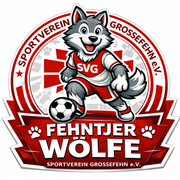
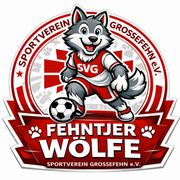
Offizielle Vereinsdateien auswerten, Markenleitfaden ergänzen
Der Verein und der Trainer haben die Druckdaten der neuen Trikots
bereitgestellt. Daraus:

- Vereinsrot korrigiert: #C8102E war geschätzt und zu bläulich. Gemessen
  aus der offiziellen Druckdatei sind es #BF0B02 - ein reines, warmes Rot.
  Alle Kontraste nachgerechnet, AA bestanden.
- Wappen aus der offiziellen Datei statt aus einem PDF-Export: 1254 px
  statt 1018, saubere Typografie. Favicon und Touch-Icon ziehen nach.
- docs/markenleitfaden.md als Nachschlagewerk für Menschen und KI-Modelle:
  gemessene Farben, beide Schreibweisen, die zwei Maskottchen, Regeln für
  Bildgenerierung, Tonfall und Mottos, Checkliste.

diff --git a/src/app/globals.css b/src/app/globals.css
@@ -8,10 +8,15 @@
  * sonst laufen Light- und Dark-Mode auseinander.
  */
 @theme {
-  --color-brand-red: #c8102e;
-  --color-brand-red-dark: #9b0c23;
+  /*
+   * Das Rot ist aus dem offiziellen Vereinslogo gemessen, nicht geschaetzt:
+   * Mittelwert ueber 172.186 Pixel der gesaettigten Rotflaeche in
+   * "Fehntjer Wölfe Logo.png" (Druckdatei des Vereins). Ein reines, warmes
+   * Rot - kein Karmesin, kein Blaustich.
+   */
+  --color-brand-red: #bf0b02;
+  --color-brand-red-dark: #8f0801;
   --color-brand-grey: #8a9099;
-  --color-brand-fur: #f2efe9;
   --color-brand-ink: #18181b;
 }
 

diff --git a/src/app/opengraph-image.tsx b/src/app/opengraph-image.tsx
@@ -27,7 +27,7 @@ export default function OpengraphImage() {
           flexDirection: "column",
           justifyContent: "center",
           padding: "90px",
-          background: "#c8102e",
+          background: "#bf0b02",
           color: "#ffffff",
         }}
       >

diff --git a/docs/markenleitfaden.md b/docs/markenleitfaden.md
@@ -1,0 +1,283 @@
+# Markenleitfaden Fehntjer Wölfe
+
+**Dieses Dokument richtet sich an Menschen und an KI-Modelle.** Es enthält die
+harten Fakten, die man nicht raten soll: gemessene Farbwerte, verbindliche
+Schreibweisen, die festen Beschreibungen der beiden Maskottchen und die Regeln,
+an denen schon etwas schiefgegangen ist.
+
+Wer hier etwas ändert, ändert es für alle künftigen Bilder, Texte und Logos.
+
+Stand: 24.10.2026
+
+---
+
+## 1. Wer die Wölfe sind
+
+Die **Fehntjer Wölfe** sind eine Nachwuchsmannschaft des **SV Grossefehn e.V.**
+in Großefehn, Ostfriesland, Niedersachsen. Zurzeit spielen sie in der
+**F-Jugend**.
+
+### Drei Dinge, die man nicht behaupten darf
+
+1. **Nicht „die jüngste Mannschaft des Vereins".** Unter der F-Jugend gibt es
+   noch die G-Jugend. Diese Behauptung stand einmal im Seitentext und war
+   falsch.
+2. **Die Altersklasse ist nicht fest.** Ein Jahrgang rückt jedes Jahr auf: aus
+   der F-Jugend wird die E-Jugend. Wer „F-Jugend" in einen Text schreibt, baut
+   ein Verfallsdatum ein. Besser: „Nachwuchsmannschaft", und die Altersklasse
+   nur dort nennen, wo sie leicht zu aktualisieren ist. In der Website steht
+   sie als einzelne Konstante `ageGroup` in `src/content/site.ts`.
+3. **Die Website ist privat betrieben**, kein offizielles Vereinsangebot. Sie
+   darf nicht so auftreten, als spräche sie für den Gesamtverein.
+
+### Schreibweisen – beide sind richtig
+
+| | Variante A | Variante B |
+|---|---|---|
+| Mannschaft | Fehntjer **Wölfe** | Fehntjer **Woelfe** (so in der Domain) |
+| Verein | SV **Großefehn** (Landkarte, Duden) | SV **Grossefehn** (so auf dem Vereinswappen) |
+
+Das Vereinswappen selbst schreibt „GROSSEFEHN" ohne ß. Beide Formen sollen in
+längeren Texten natürlich vorkommen, damit die Seite unter beiden gefunden
+wird – **in ganzen Sätzen, nie als Stichwortliste.**
+
+Instagram: [@fehntjer_woelfe](https://www.instagram.com/fehntjer_woelfe/)
+E-Mail: mail@fehntjer-woelfe.de
+
+---
+
+## 2. Farben
+
+**Alle Werte sind gemessen, nicht geschätzt.** Das Vereinsrot stammt aus der
+offiziellen Druckdatei `Fehntjer Wölfe Logo.png`: Mittelwert über 172.186 Pixel
+der gesättigten Rotfläche.
+
+| Rolle | Hex | RGB | Verwendung |
+|---|---|---|---|
+| **Vereinsrot** | `#BF0B02` | 191, 11, 2 | Flächen, Trikot, Hero, Buttons |
+| Vereinsrot dunkel | `#8F0801` | 143, 8, 1 | Hover, Schatten |
+| Wolfsgrau | `#8A9099` | 138, 144, 153 | Fell der Maskottchen |
+| Tiefschwarz | `#18181B` | 24, 24, 27 | Konturen, Text |
+| Weiß | `#FFFFFF` | 255, 255, 255 | Trikotpartien, Text auf Rot |
+
+**Das Rot ist ein reines, warmes Rot** – kein Karmesin, kein Blaustich. Eine
+frühere Fassung dieser Seite nutzte `#C8102E`; das war deutlich zu bläulich und
+ist korrigiert.
+
+### Kontraste
+
+Geprüft nach WCAG 2.1:
+
+| Kombination | Verhältnis | |
+|---|---|---|
+| Weiß auf `#BF0B02` | 6,43 : 1 | AA bestanden |
+| `#BF0B02` auf Weiß | 6,43 : 1 | AA bestanden |
+| `#8F0801` auf Weiß | 9,53 : 1 | AA bestanden |
+
+Wer eine neue Farbkombination einführt, rechnet den Kontrast nach. 4,5 : 1 ist
+das Minimum für normalen Text.
+
+### Sponsorenfarben (nicht Vereinsfarben)
+
+Auf den Trikots stehen fremde Marken. Ihre Farben sind **nicht** Teil der
+Vereinsidentität und dürfen nicht in eigene Gestaltung übernommen werden:
+
+- **ELSCO Haustechnik**: Orange `#EC6608`, dazu Graustufen
+- **VO Immobilien**, **Ostfriesische Brandkasse**: eigene Dateien, siehe unten
+
+---
+
+## 3. Logos
+
+### Welche Datei wofür
+
+| Datei | Inhalt | Einsatz |
+|---|---|---|
+| `Fehntjer Wölfe Logo.png` | Mannschaftswappen, 1254², weißer Hintergrund | **Die maßgebliche Fassung.** Website, Social Media, Druck |
+| `svg-vereinswappen.png` | Vereinswappen SVG, 512², transparent | wo die Zugehörigkeit zum Verein gezeigt wird |
+
+Die Originale liegen beim Verein beziehungsweise im Referenzordner des
+Bildprojekts – **nicht** in diesem Repository. Eingecheckt sind nur die
+verkleinerten Web-Fassungen unter `public/logo/`, erzeugt von
+`scripts/optimize-images.mjs`.
+
+### Regeln
+
+1. **Das Wappen wird nie nachgezeichnet, nachgebaut oder „neu interpretiert".**
+   Es wird verwendet, wie es ist. Ein KI-generiertes Wappen sieht fast richtig
+   aus – und genau das ist das Problem.
+2. **Nie verzerren.** Seitenverhältnis bleibt.
+3. **Nicht auf Rot stellen.** Beide Wappen sind selbst rot-weiß. Auf rotem
+   Grund gehören sie auf eine weiße Fläche – wie ein aufgeklebter Aufnäher.
+4. **Das Vereinswappen ist eine fremde Marke.** Die Verwendung auf einer
+   privaten Mannschaftsseite ist üblich, sollte aber mit dem Verein abgestimmt
+   sein.
+5. **Sponsorenlogos nie generieren.** Dafür gibt es Druckdateien (SVG, AI, EPS,
+   PDF) vom Verein, in den Varianten Brust/Rücken und farbig/schwarz. Ein
+   nachgebautes Sponsorenlogo ist ein Vertragsproblem, kein Designfehler.
+
+---
+
+## 4. Die beiden Maskottchen
+
+Es gibt **zwei** Wölfe, nicht einen. Sie müssen auf jedem Bild unterscheidbar
+sein.
+
+| | **Spieler-Wolf** (jung) | **Trainer-Wolf** (älter) |
+|---|---|---|
+| Fell | helleres Silbergrau, glatt | dunkleres Stahlgrau, struppiger |
+| Augenbrauen | keine | zwei kräftige dunkle Brauen – sein Erkennungsmerkmal |
+| Augen | weit offen, rund, **blau** | schmaler, aber **gleiches Blau** |
+| Mund | offenes Grinsen, Zunge sichtbar | geschlossenes, wissendes Schmunzeln |
+| Haltung | rennt, springt, jubelt | zeigt, erklärt, Pfote am Kinn |
+| Kleidung | Trikot | schwarze Trainerjacke |
+
+**Beide haben blaue Augen.** Das ist die häufigste Abweichung: Modelle geben
+dem älteren Wolf gern braune Augen. Ebenso häufig: schwere Lider, die ihn
+arrogant statt souverän wirken lassen.
+
+Die wörtlichen, englischen Prompt-Bausteine stehen in
+`prompts/woelfe-charakter.md` des Bildprojekts, in den Abschnitten `BASIS`,
+`SPIELER`, `TRAINER`, `DUO`, `STYLE` und `NEGATIVE`. **Diese Blöcke gehen
+unverändert in jeden Prompt.** Jede Umformulierung kostet Konsistenz über die
+Bildserie hinweg.
+
+### Zwei Stilregister – eines auswählen
+
+Das vorhandene Material ist nicht einheitlich:
+
+| | **Wappen** | **Duo-Sticker** (Protokollfolien, Elternbriefe) |
+|---|---|---|
+| Kopfanteil | etwa ¼ der Figur | etwa **⅖**, groß und rund |
+| Register | Sport-Logo, dynamisch, kantig | Kinder-Sticker, weich, knuffig |
+| Augen | mittelgroß | groß, rund, eng beieinander |
+
+**Für neue Motive gilt das Duo-Sticker-Register.** Das Wappen bleibt Wappen und
+wird nicht nachgebaut. Ein Steckbrief, der zwischen beiden liegt, erzeugt
+schlanke Huskys statt Maskottchen – das ist einmal passiert.
+
+---
+
+## 5. Regeln für Bildgenerierung
+
+### Keine Schrift im generierten Bild
+
+Bildmodelle setzen Text nicht zuverlässig. Auf einem früheren Motiv war aus
+„jetzt geht's los!" ein verrutschter Buchstabensalat geworden. Bei einem
+Vereinsnamen fällt jeder Fehler sofort auf.
+
+**Also:** Trikots bleiben im Prompt blank – rot-weiß, ohne Aufdruck, ohne
+Nummern, ohne Brustmarke. Schrift, Wappen und Sponsorenleiste kommen
+**nachträglich** in Canva, PowerPoint oder GIMP dazu. Das dauert zwei Minuten
+und sieht immer richtig aus.
+
+### Das Vereinswappen im Bild
+
+Getestet: Bei **einem** Wolf gelingt eine runde rot-weiße Scheibe mit
+Kreuz-Stern, ohne Schrift, als Marke erkennbar. Bei **zwei** Wölfen wurde
+daraus ein Wappenschild mit Blümchen-Emblem.
+
+**Regel:** Das generierte Wappen ist eine *Andeutung*, keine Marke. Für alles
+Öffentliche das echte Wappen hinterher auflegen.
+
+### Maßstab
+
+Die Wölfe sind eine **Nachwuchsmannschaft im Kleinfeld**: Mini-Tore, ein paar
+Eltern am Zaun, ein kleiner Turnierpokal. **Kein Stadion, kein tosendes
+Publikum, kein Riesenpokal, kein Konfettiregen.** Die erste Szenenliste lag
+hier daneben.
+
+### Formate
+
+| Kanal | Seitenverhältnis |
+|---|---|
+| Instagram-Beitrag | 4:5 |
+| Sticker, Profilbild | 1:1 |
+| Protokollfolien, Elternbrief | 16:9 |
+
+### Prüfpflicht
+
+**Jedes generierte Bild wird vor der Veröffentlichung einzeln angesehen.** Bei
+einem Durchlauf von fünfzehn Motiven waren vier unbrauchbar:
+
+- ein Bild zeigte **zwei** Wölfe, obwohl die Szene auf einen gestellt war
+- zwei Bilder hatten **braune statt blaue** Augen
+- ein Wappen war zu einem Schild mit Blumenmuster geworden
+
+Weitere typische Fehler: drei Ohren, zwei Schwänze, zwei identische Wölfe,
+Textfetzen im Hintergrund, abgeschnittene Füße.
+
+### Offenlegung
+
+Dass ein Bild KI-generiert ist, gehört sichtbar auf die Seite – nicht ins
+Kleingedruckte. Auf `/bilder` steht es über der Galerie, im Impressum
+ebenfalls.
+
+---
+
+## 6. Tonfall und Mottos
+
+### Wie die Wölfe sprechen
+
+Der Instagram-Account gibt den Ton vor: **„Moin! Wir sind die F-Jugend des SV
+Grossefehn."** Dazu kurze, flapsige Bildunterschriften wie *„Top-Lage, perfekte
+Aussicht… direkt ins Netz!"*
+
+Daraus abgeleitet:
+
+- **„Moin" statt „Herzlich willkommen".** Ostfriesland, nicht Werbeagentur.
+- **Kurze Sätze.** Eltern lesen das am Handy zwischen zwei Terminen.
+- **Augenzwinkern erlaubt**, Pathos nicht. Es ist Kinderfußball, keine
+  Champions League.
+- **Wir-Form.** Die Mannschaft spricht, nicht eine Abteilung.
+- **Keine Superlative.** Nicht „die beste Jugend", nicht „einzigartig". Siehe
+  auch Abschnitt 1: keine Behauptung ohne Deckung.
+
+### Mottos – was passt
+
+Gut, weil kurz, regional und ohne Angeberei:
+
+> Moin, wir sind die Wölfe.
+> Klein, aber laut.
+> Erst Rudel, dann Tor.
+> Kleinfeld, großes Herz.
+> Wir laufen, bis die Socken rutschen.
+
+Was **nicht** passt: alles mit „Champions", „Elite", „Legende", „unbesiegbar".
+Und alles, was eine sportliche Behauptung aufstellt, die nächste Woche
+überprüfbar falsch sein kann.
+
+### Umgang mit „Wölfe"-Bildsprache
+
+Rudel, Spuren, Heulen, zusammenhalten – das trägt. **Nicht** tragen: Reißzähne,
+Beute, Jagd, Angriff. Es geht um Kinder; ein Maskottchen mit gefletschten
+Zähnen wäre aus demselben Grund falsch wie ein Motto über Beute.
+
+---
+
+## 7. Checkliste vor der Veröffentlichung
+
+- [ ] Steht eine Altersklasse im Text? Dann ist sie noch aktuell?
+- [ ] Keine Behauptung über „die jüngste" oder „die beste" Mannschaft?
+- [ ] Beide Wölfe unterscheidbar, beide mit blauen Augen?
+- [ ] Keine Schrift im generierten Bild?
+- [ ] Keine nachgebauten Sponsorenlogos?
+- [ ] Wappen unverzerrt, auf weißem Grund?
+- [ ] Rot ist `#BF0B02`?
+- [ ] Bei KI-Bildern: Hinweis sichtbar?
+- [ ] Bild einzeln angesehen – Ohren, Schwänze, Finger, Bildränder?
+
+---
+
+## 8. Wo was liegt
+
+| Was | Wo |
+|---|---|
+| Website, Quelltext | dieses Repository |
+| Texte und Stammdaten | `src/content/site.ts` |
+| Bildliste der Galerie | `src/content/gallery.json` |
+| Web-Fassungen der Bilder | `public/bilder/`, `public/logo/` |
+| Bildskript | `scripts/optimize-images.mjs` |
+| DNS und E-Mail | [`docs/dns-und-mail.md`](dns-und-mail.md) |
+| Charakter-Steckbrief, Szenen | Bildprojekt, `prompts/` |
+| Originalbilder, Druckdateien | Bildprojekt, `referenz/` – **nicht** im Repo |

diff --git a/README.md b/README.md
@@ -174,6 +174,16 @@ Die Schreibweisen „Wölfe"/„Woelfe" und „Großefehn"/„Grossefehn" kommen
 absichtlich beide im Seitentext vor, in ganzen Sätzen statt als Stichwortliste.
 `inhalte.test.ts` hält fest, dass sie beim Umformulieren nicht verloren gehen.
 
+## Markenleitfaden
+
+[`docs/markenleitfaden.md`](docs/markenleitfaden.md) ist das Nachschlagewerk
+für alles Gestalterische – geschrieben für Menschen **und für KI-Modelle**:
+gemessene Farbwerte, verbindliche Schreibweisen, die festen Beschreibungen
+beider Maskottchen, Regeln für Bildgenerierung, Tonfall und Mottos, dazu eine
+Checkliste vor der Veröffentlichung.
+
+Wer ein neues Logo, Motiv oder Motto erzeugen lässt, liest das vorher.
+
 ## Rechtliches
 
 - **Impressum:** privat betriebene Seite, Verantwortlicher siehe

diff --git a/AGENTS.md b/AGENTS.md
@@ -32,6 +32,14 @@ aus.
    im Verein – unter ihr gibt es noch die G-Jugend. Strukturierte Daten dürfen
    nichts enthalten, was nicht auch sichtbar auf der Seite steht.
 
+## Marke, Farben, Maskottchen
+
+Alles Gestalterische steht in [`docs/markenleitfaden.md`](docs/markenleitfaden.md).
+Dort stehen die **gemessenen** Farbwerte (Vereinsrot `#BF0B02`), beide
+Schreibweisen des Namens, die Beschreibung der zwei Maskottchen und die
+Regeln, an denen schon etwas schiefgegangen ist. Vor jeder Bild-, Logo- oder
+Mottoerzeugung lesen.
+
 ## Bilder
 
 `src/content/gallery.json` ist die gemeinsame Quelle für die Website und für
